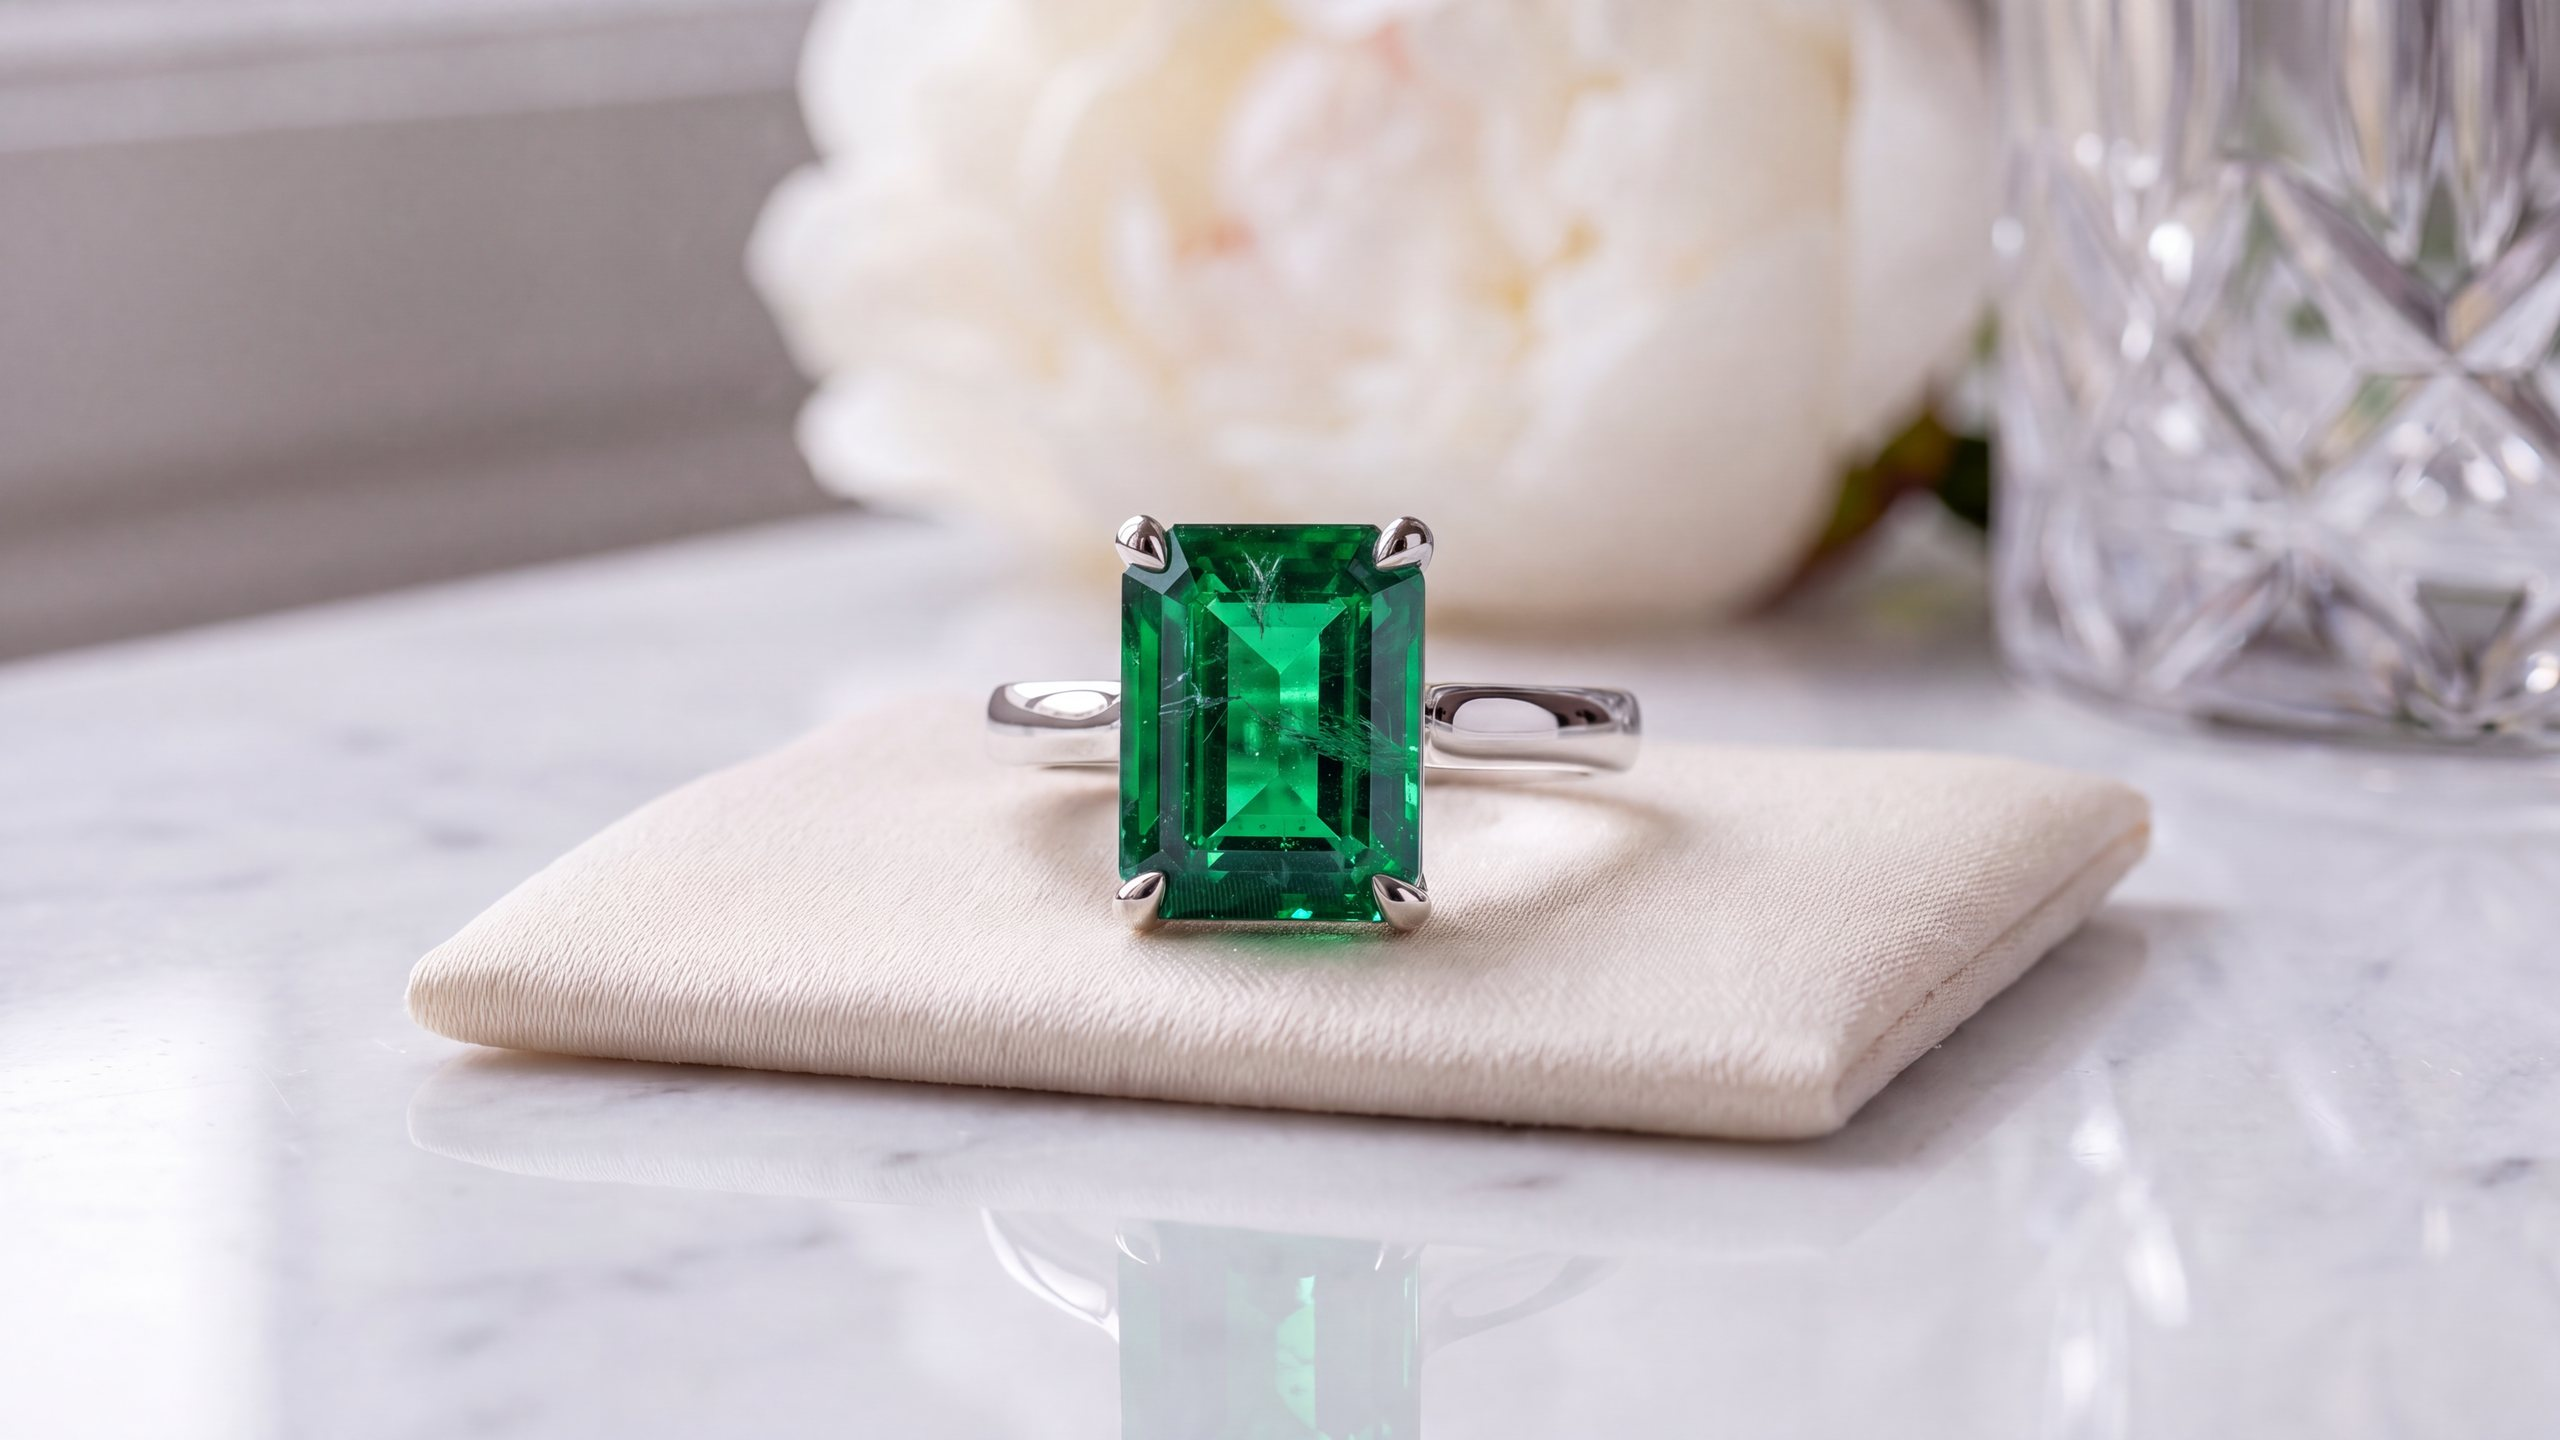
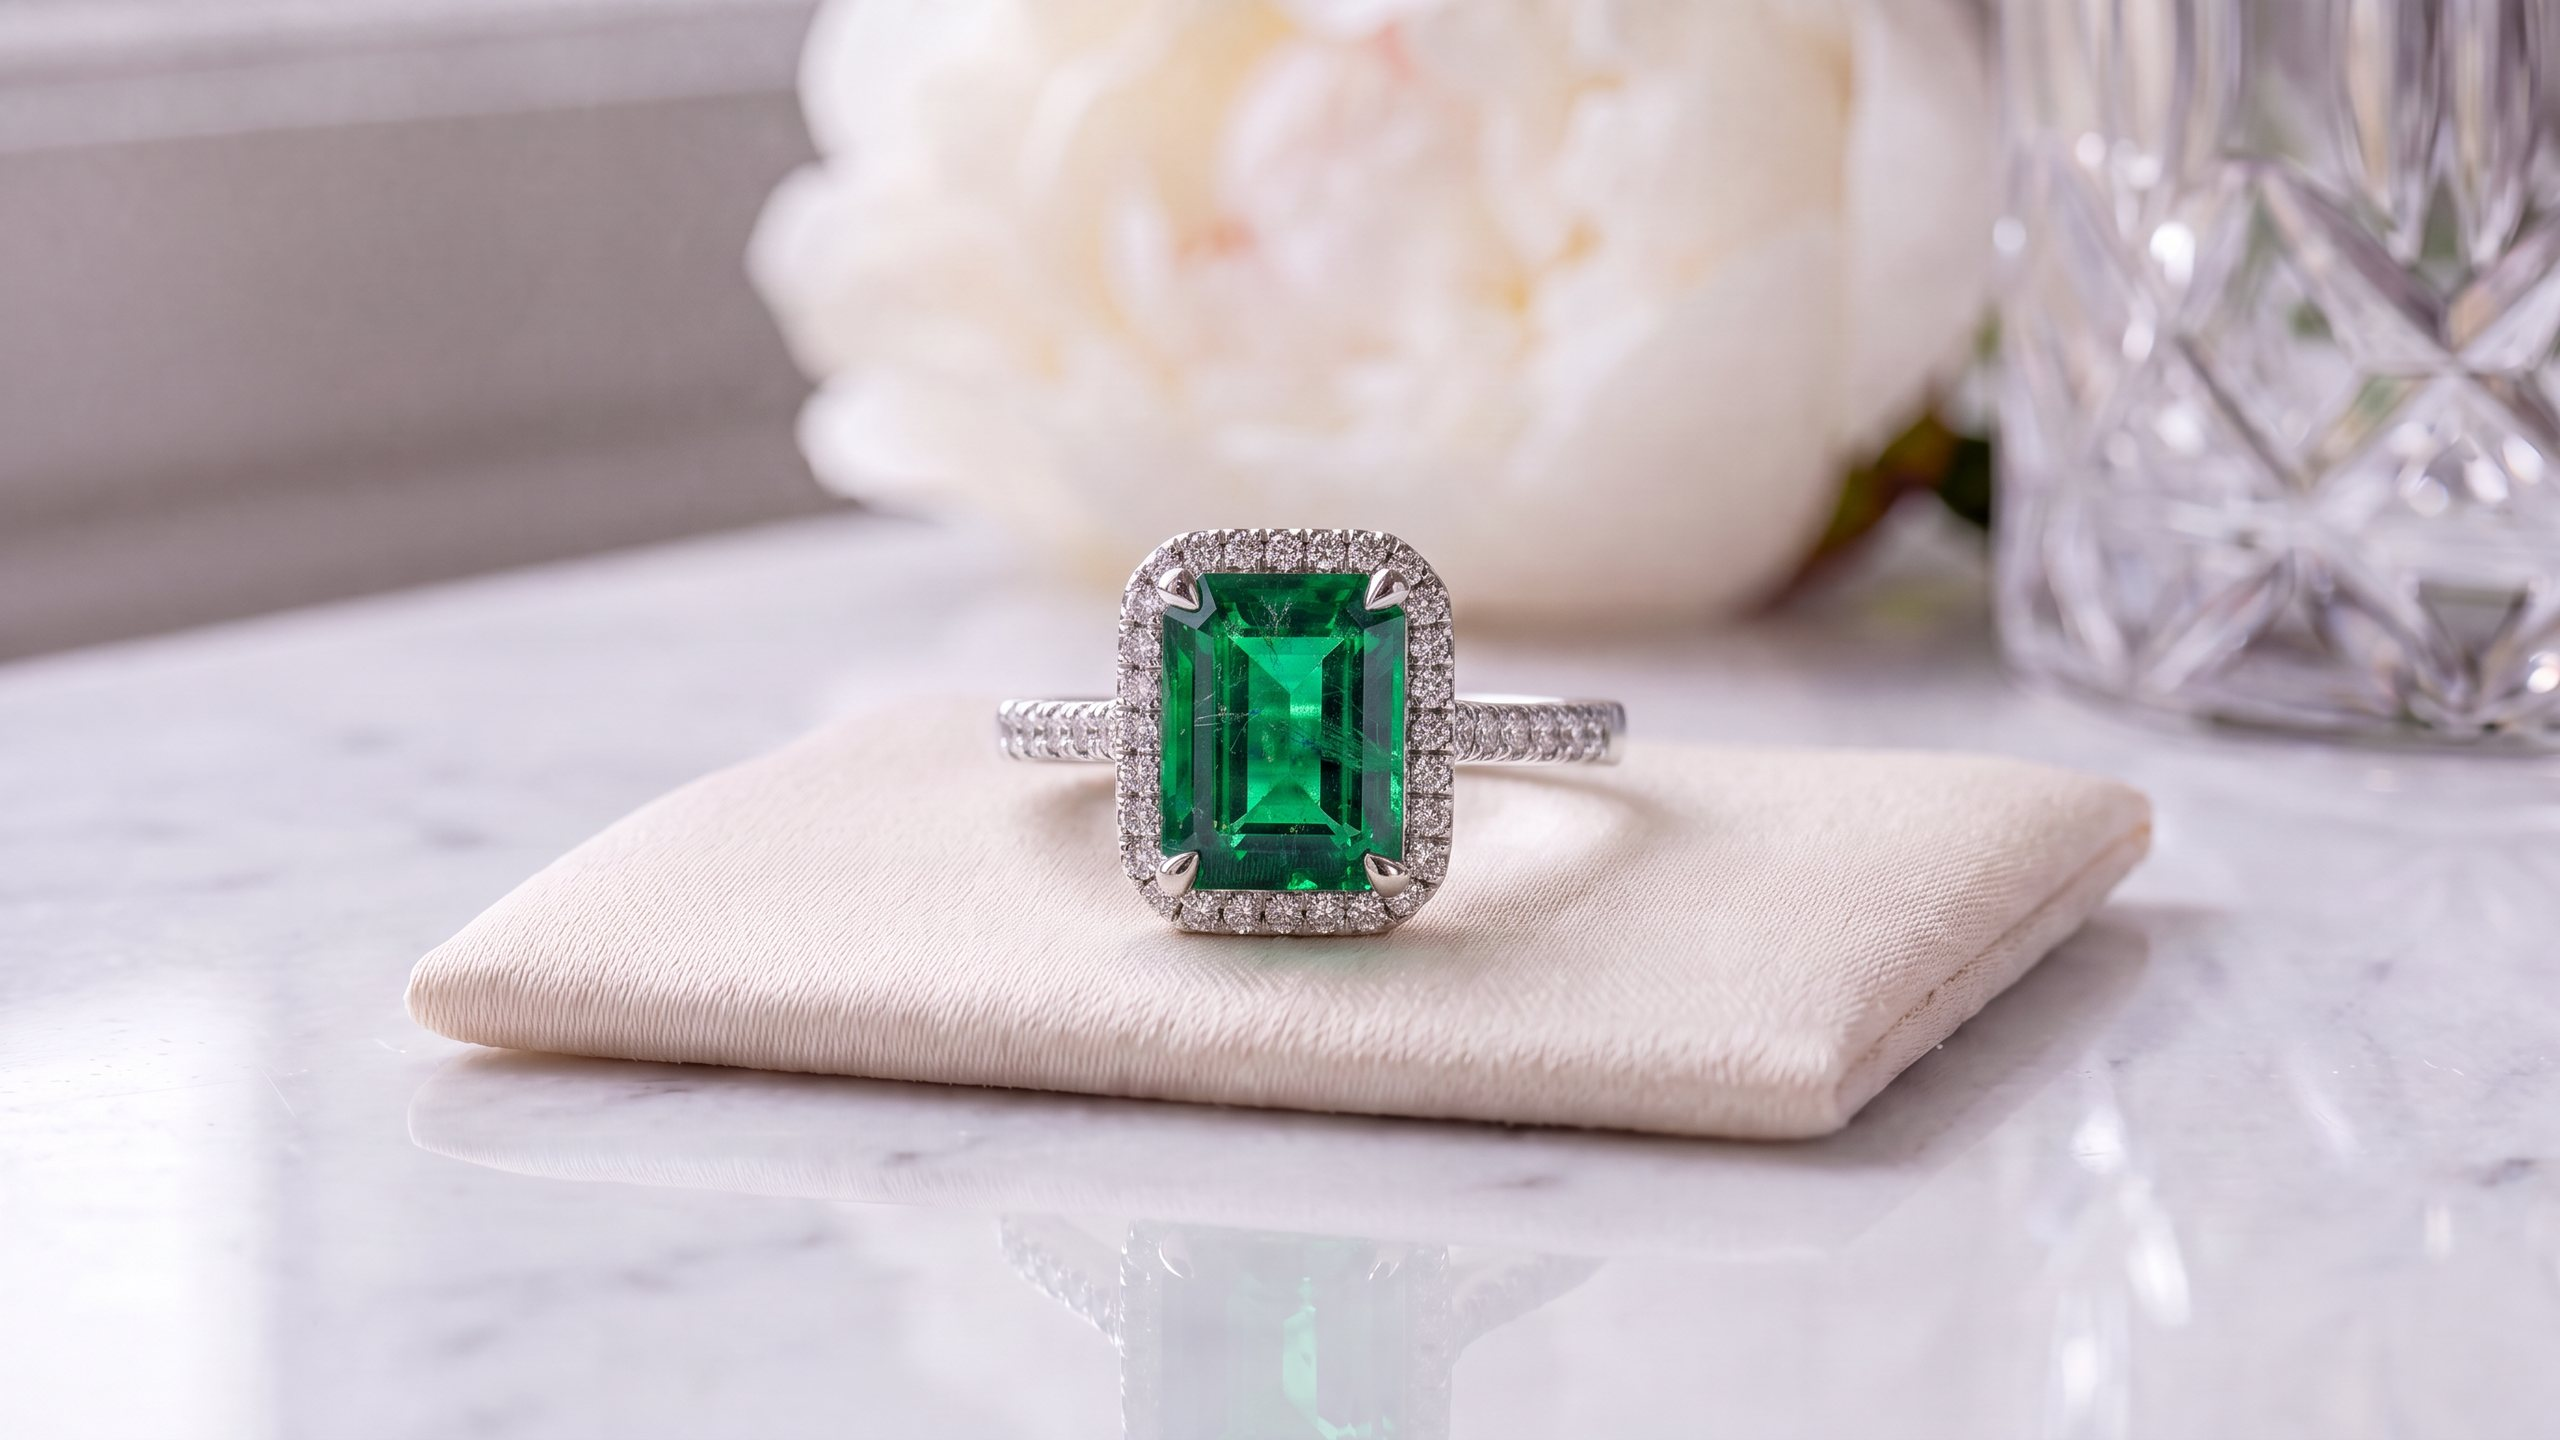
Match the ring on the cushion to the ring on her hand
Claude-Session: https://claude.ai/code/session_01Q4WUgTY8fGZ11GNs3P87yG

diff --git a/index.html b/index.html
@@ -220,7 +220,7 @@
     { type:'dip',   dur:0.8 },
     { type:'still', src:S[8],  dur:1.2, z0:1.02, z1:1.08, fx:.75, fy:.65, ch:'set', dk:.3 },
     { type:'dip',   dur:0.8 },
-    { type:'still', src:S[9],  dur:1.2, z0:1.02, z1:1.1,  fx:.37, fy:.62, ch:'ring', dk:.3 },
+    { type:'still', src:S[9],  dur:1.2, z0:1.02, z1:1.12, fx:.5,  fy:.52, ch:'ring', dk:.3 },
     { type:'dip',   dur:0.9 },
     { type:'still', src:S[10], dur:0.6, z0:1.0,  z1:1.0,  fx:.5,  fy:.5, dk:.6 },
     { type:'seq',   frames:v2, dur:2.6, ch:'moment', dk:.55 },
